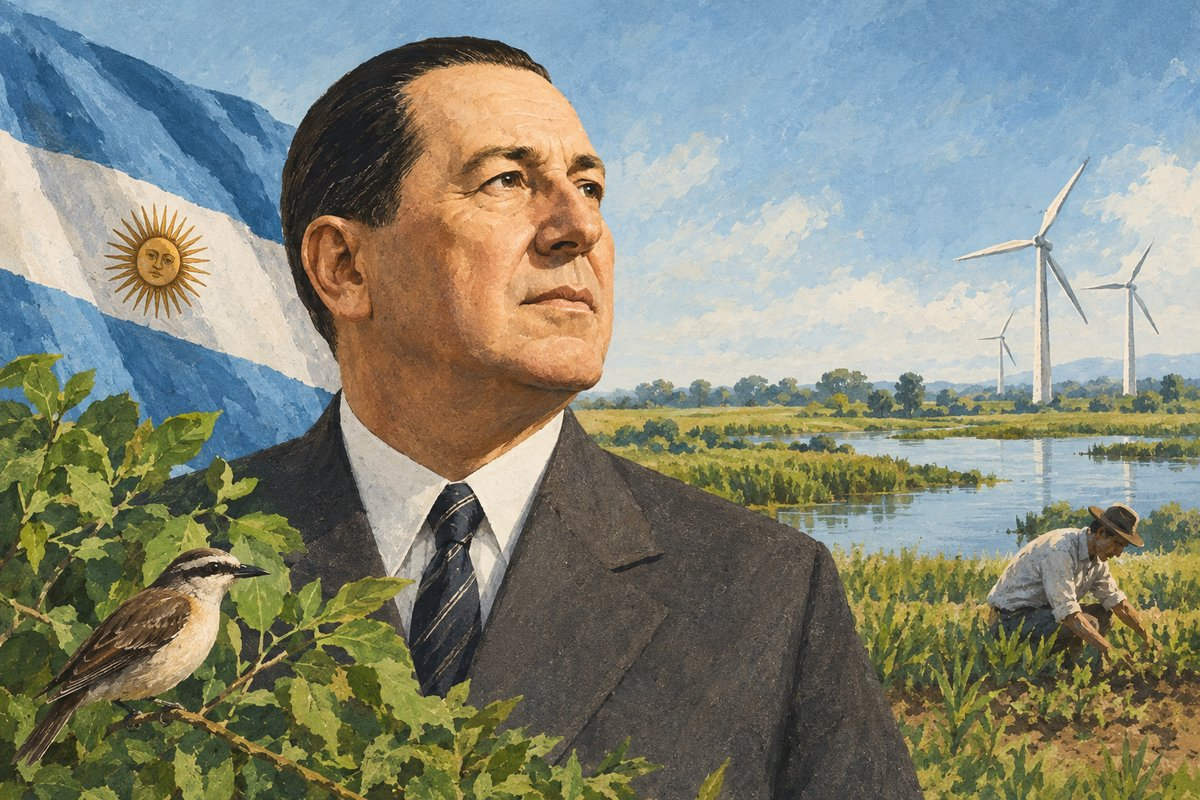
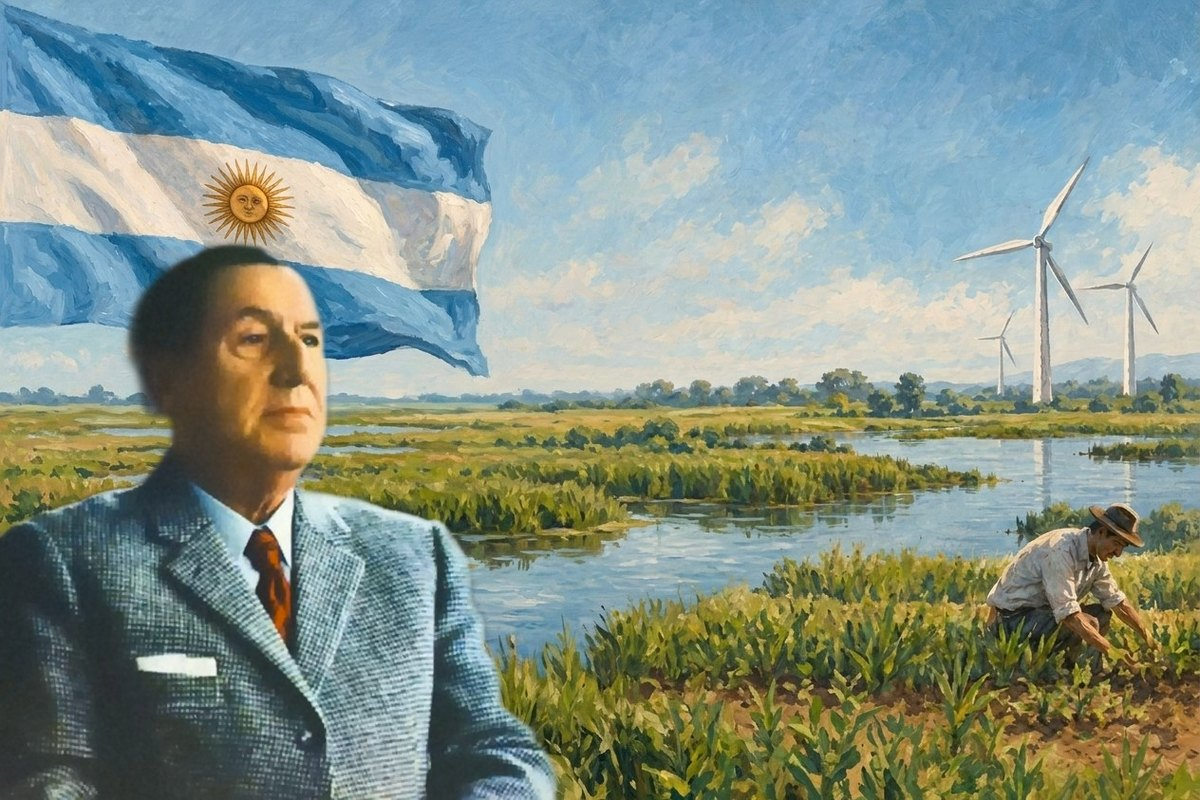
Miniaturas: collages de Perón y nueva ilustración para el milagro asiático
Claude-Session: https://claude.ai/code/session_01XA8AM6u7gpUR92ZEf2FbBM

diff --git a/_posts/2019-11-04-el-milagro-asiatico.md b/_posts/2019-11-04-el-milagro-asiatico.md
@@ -9,7 +9,7 @@ tags:
   - estado
   - argentina
 header:
-  teaser: /assets/thumbnails/how_asia.png
+  teaser: /assets/thumbnails/milagro-asiatico.jpg
 excerpt: "Algunas ideas del libro How Asia Works"
 ---
 
